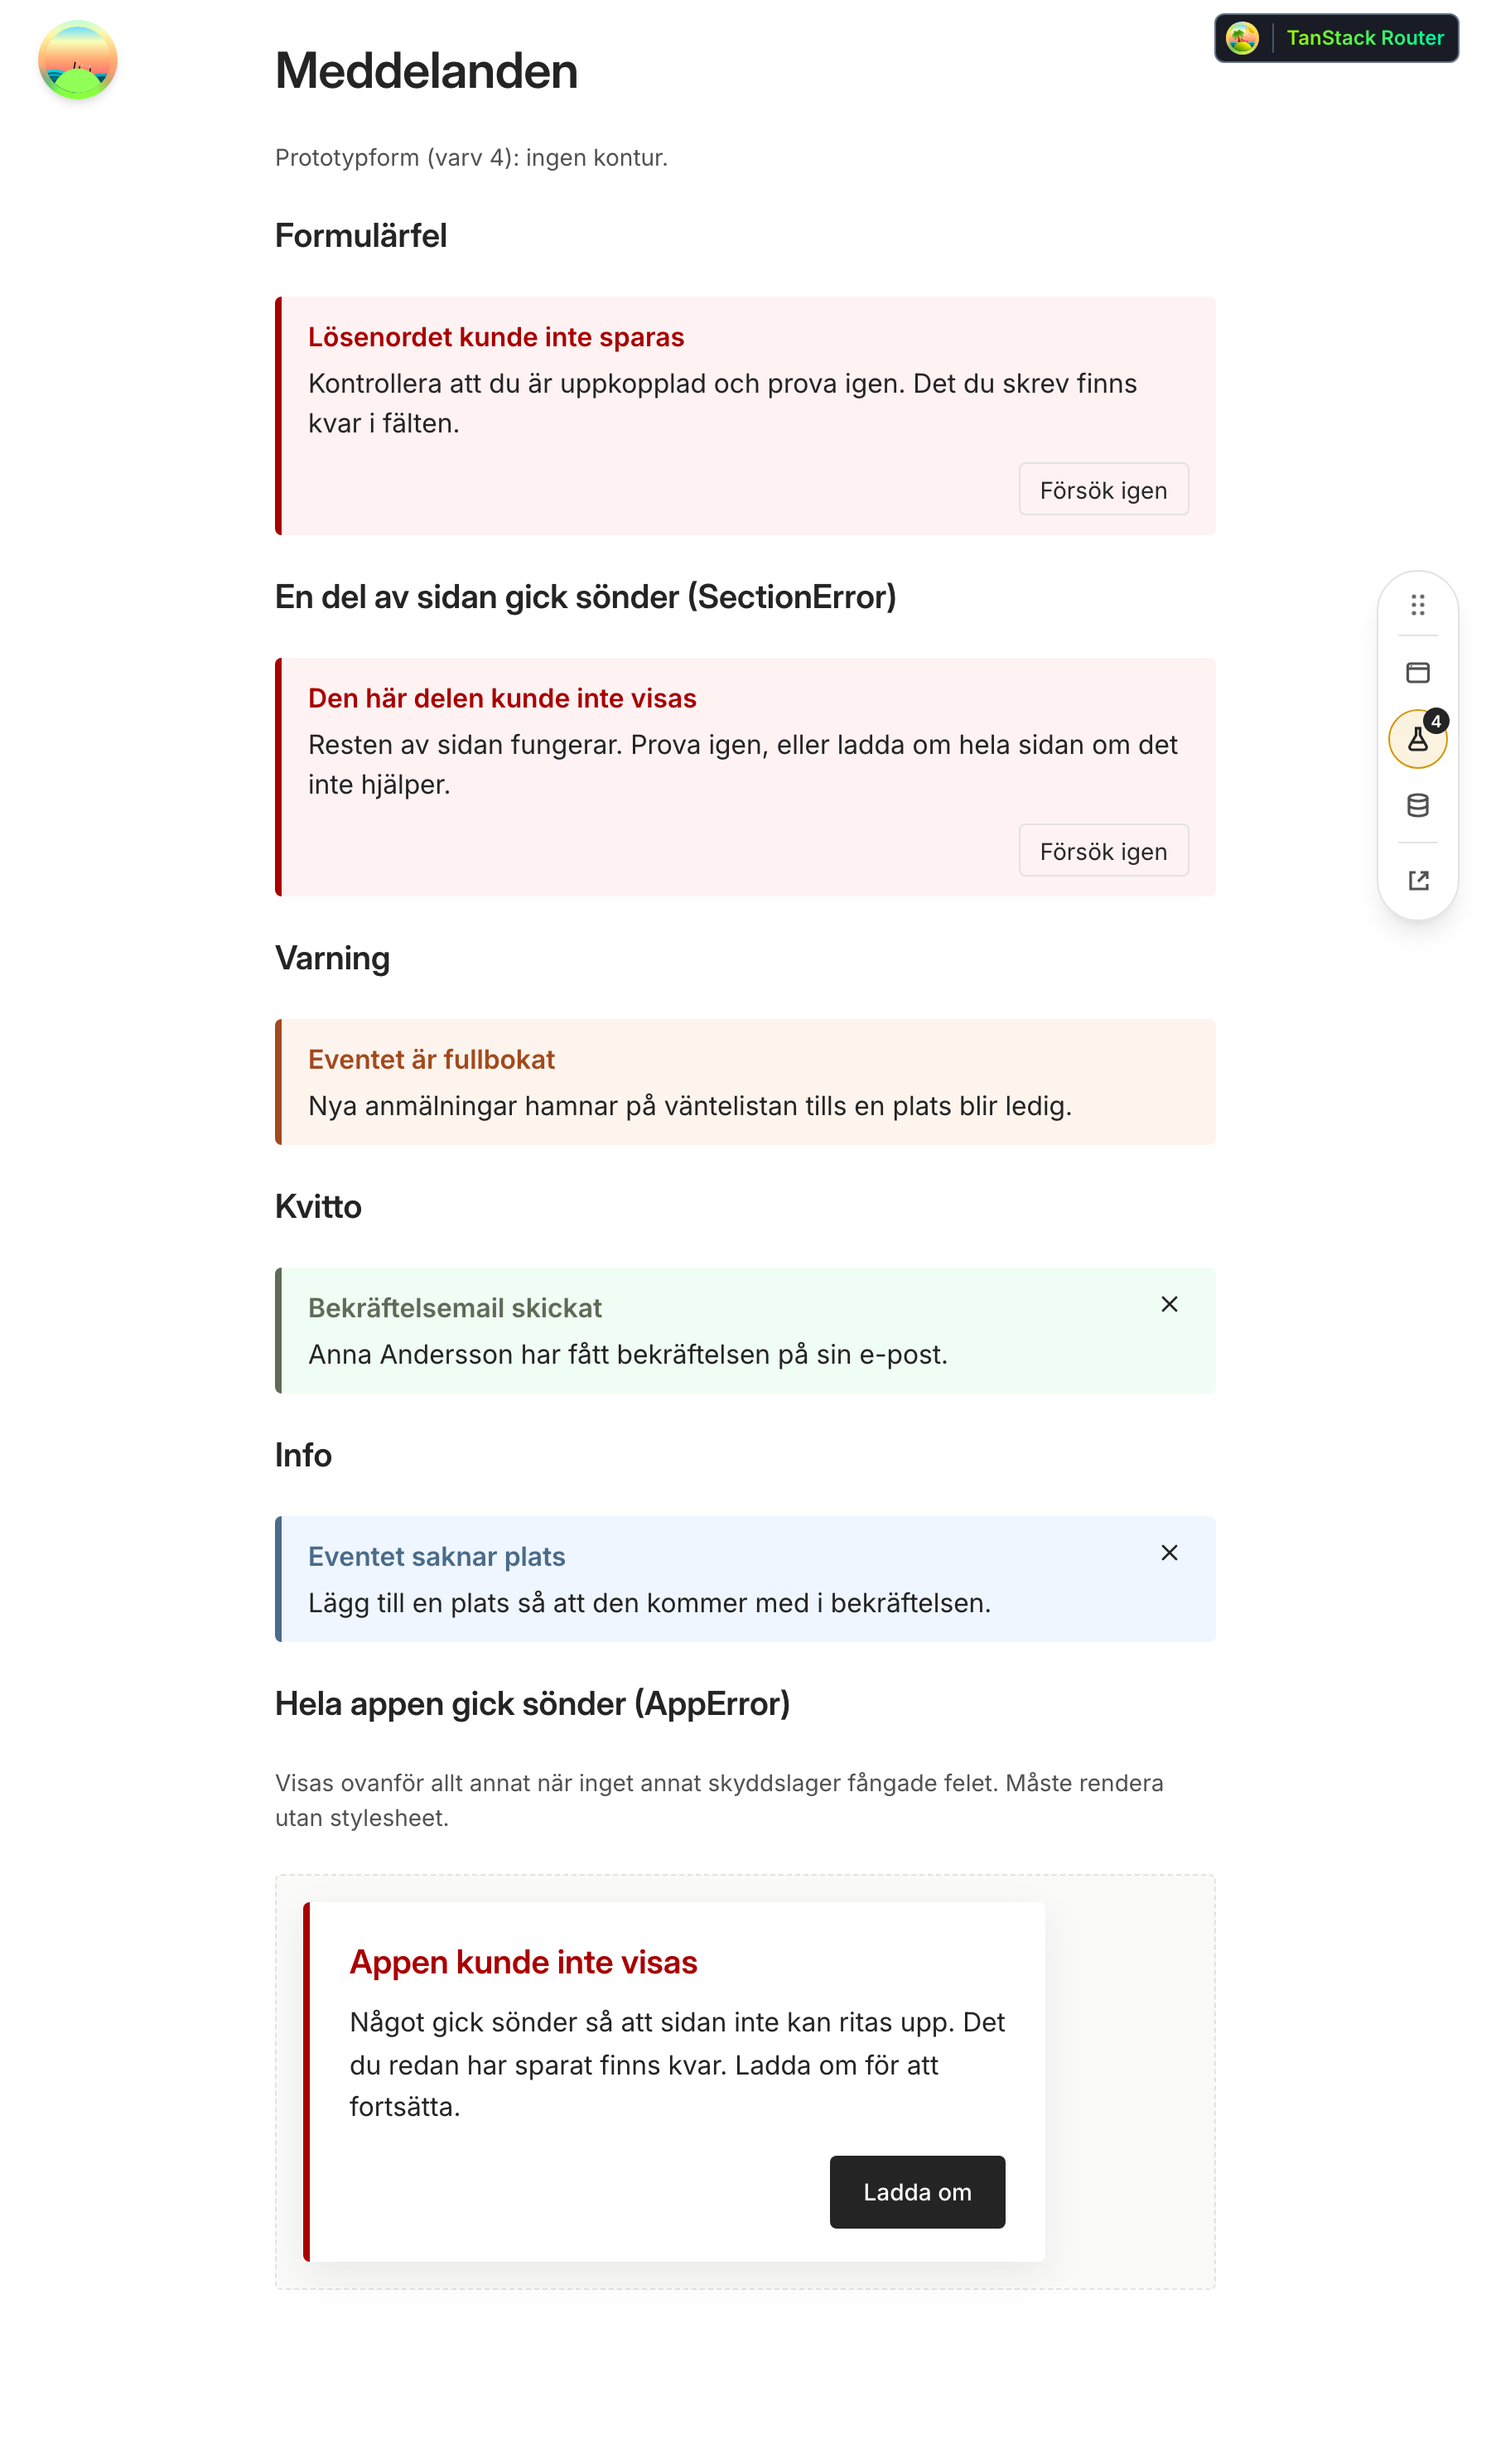
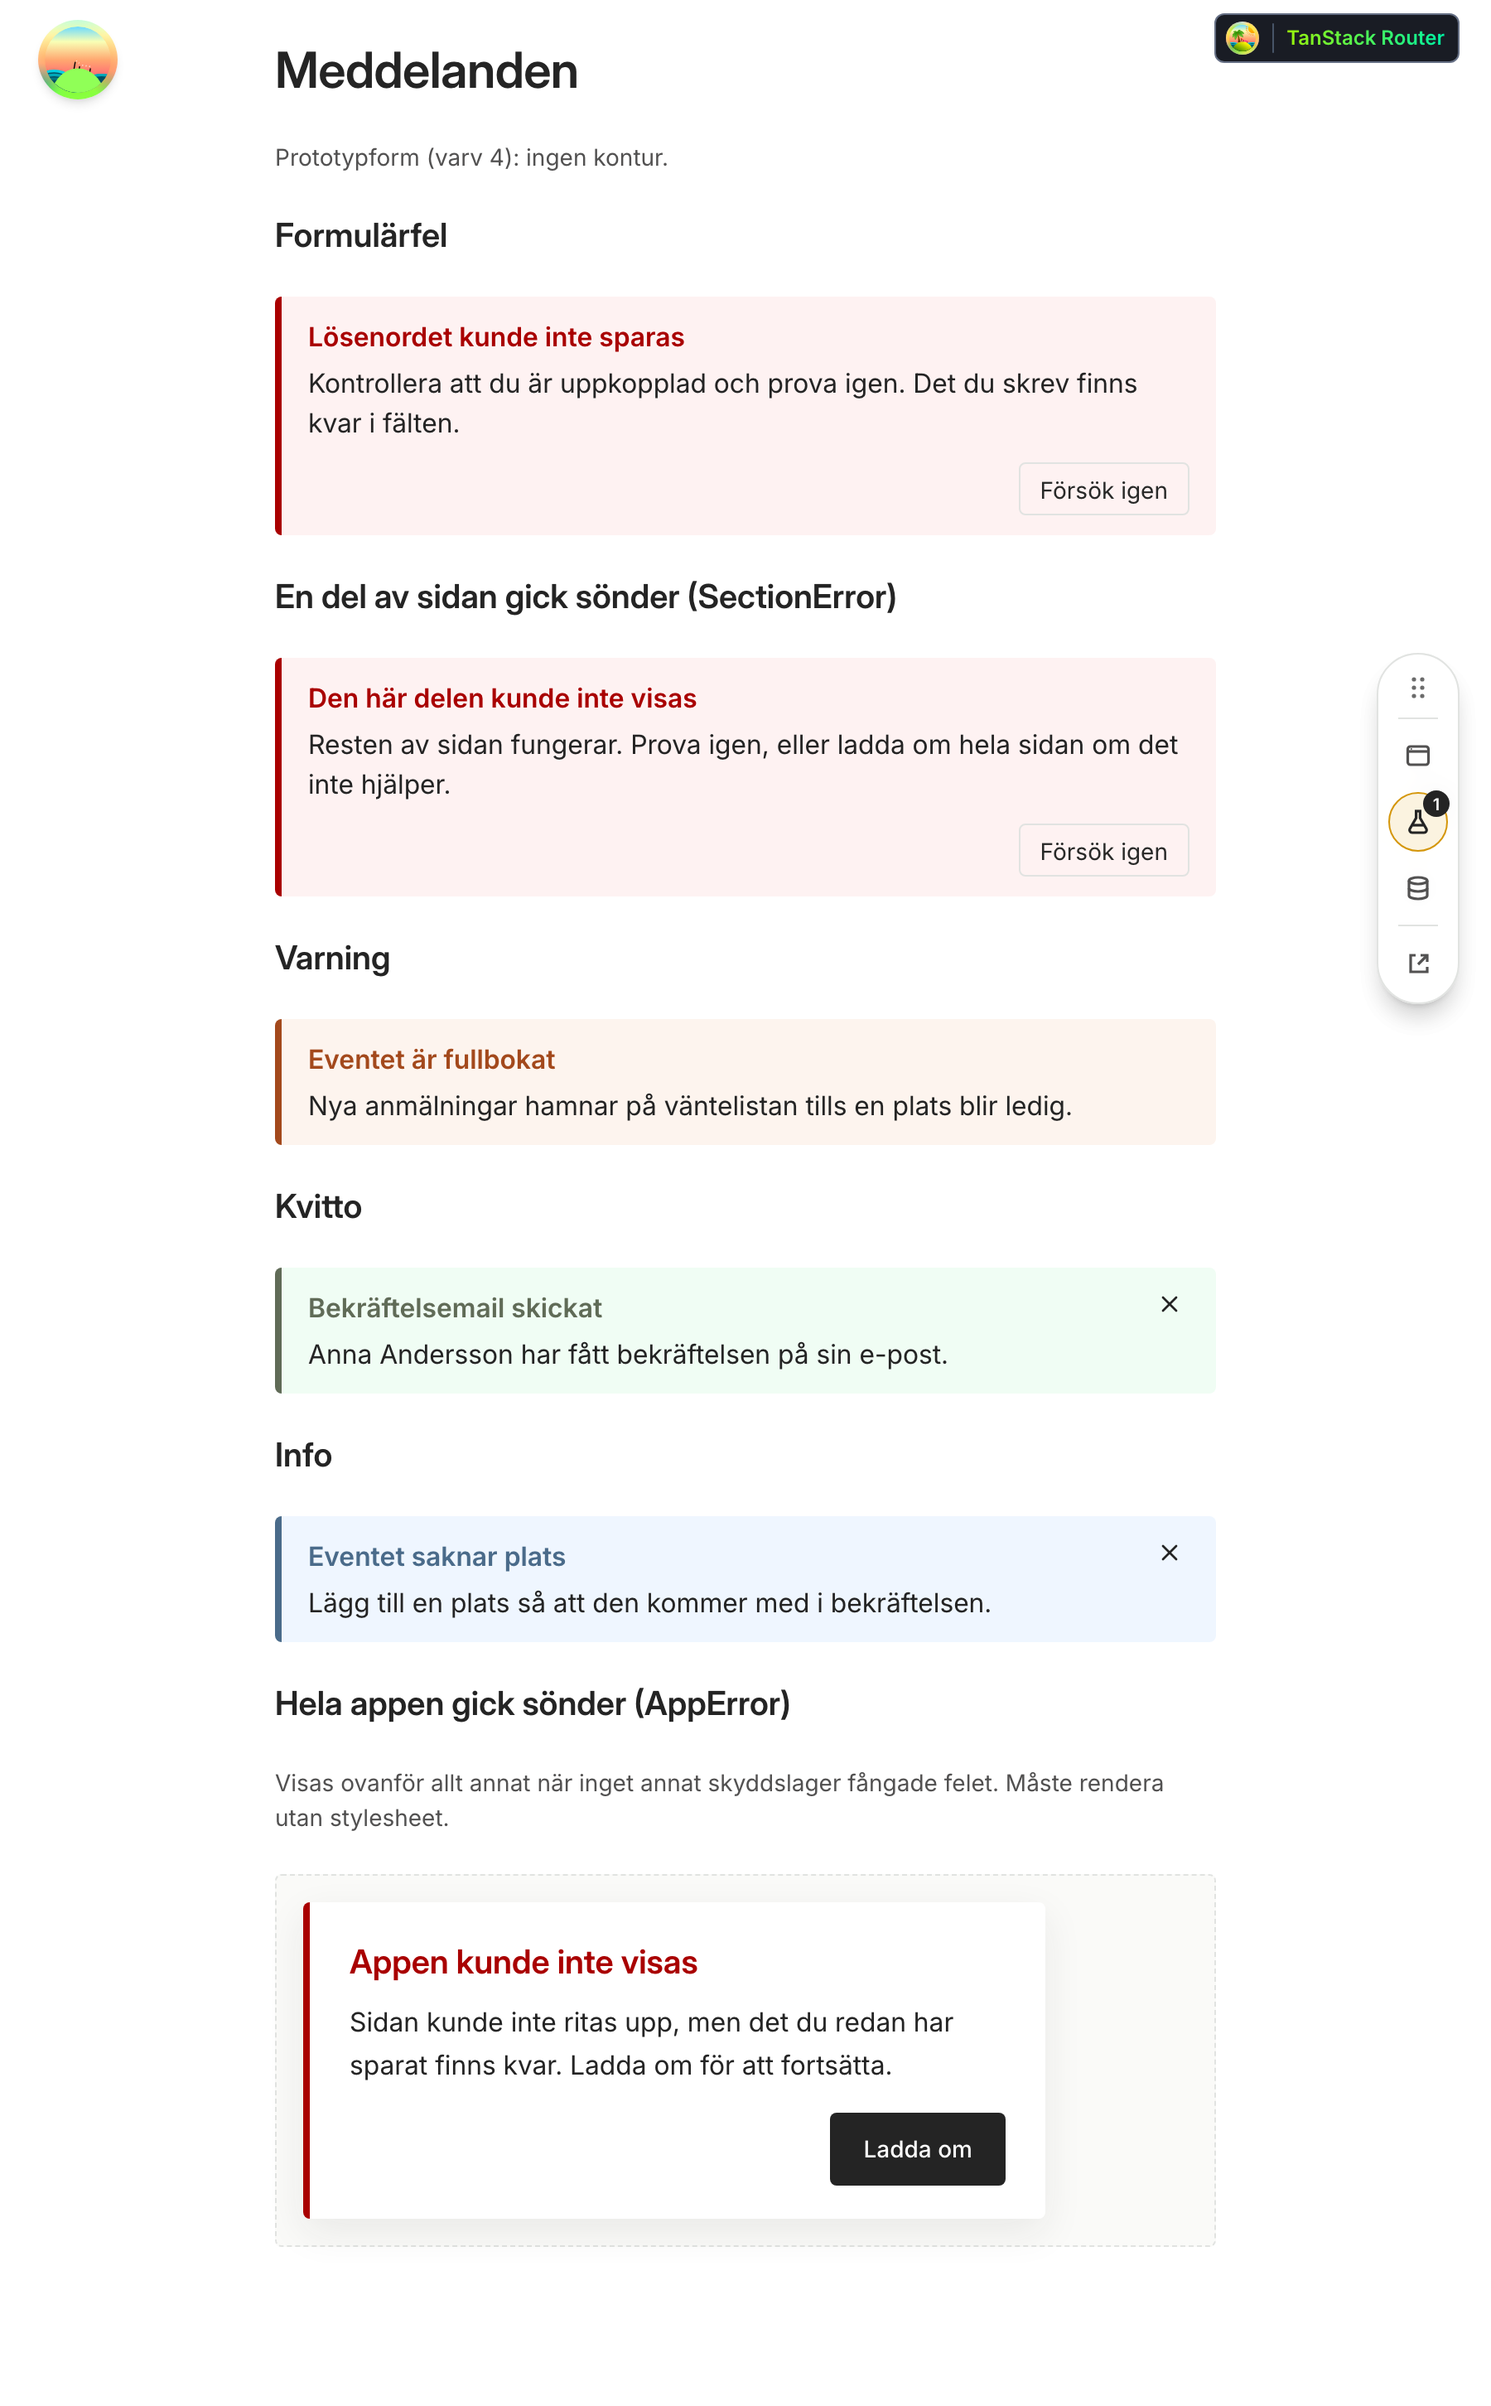
fix(facit): [TASK-285.10] avstäm meddelandefamiljens facit mot koden, friskriv copy för båda ytorna
FÖRKRAV ur TASK-285.8 (AC #4, #5) inför Marcus stämpling:

AC #4: appfel-sidans facit-bild och not-fält citerade den GAMLA tre-
meningars brödtexten, medan AppErrorFallback.tsx/AppErrorPrototyp.tsx
(TASK-285.8, copy-svepet) bär den kortade tvåmenings-versionen sedan
tidigare. Tog om facit-meddelandefamiljen.png (fristående Playwright-
skärmdump av /dev/notis-prototyp?variant=1, samma metod som S109 Del 8:
viewport 900 css px, deviceScaleFactor 2, fullPage — härlett ur den gamla
bildens pixelmått 1800x2956 = 900x1478 @2x) och uppdaterade not-fältet med
den faktiska strängen, verifierad mot src/.

AC #5: manifestet lät meddelanderutan friskriva copy ("FÖRSLAG enligt
copy-domarna, ej låst med formen") medan appfel-sidan föreskrev copy
verbatim — två motsatta påståenden i samma manifest. Lade en delad
FRISKRIVNING i båda ytornas not-fält (facit låser FORMEN — layout,
hierarki, avstånd — inte orden) och tog bort appfel-sidans verbatim-lås;
formbeskrivningen (inline-stilar, kortform, hierarki) står oförändrad.

Bockar AC #4 och #5 på TASK-285.10. AC #1–#3 kräver Marcus egen
granskning och stämpling via facit:godkann (ADR-104) — kortet lämnas
i To Do.

diff --git a/backlog/tasks/task-285.10 - Skiva-Marcus-granskar-skarpa-mot-facit-och-stämplar-—-sida-vid-sida-per-yta-godkand-via-kanalen.md b/backlog/tasks/task-285.10 - Skiva-Marcus-granskar-skarpa-mot-facit-och-stämplar-—-sida-vid-sida-per-yta-godkand-via-kanalen.md
@@ -6,7 +6,7 @@ title: >-
 status: To Do
 assignee: []
 created_date: '2026-08-21 11:17'
-updated_date: '2026-08-21 16:51'
+updated_date: '2026-08-22 08:41'
 labels:
   - ready-for-human
 dependencies:
@@ -40,8 +40,8 @@ Täcker användarberättelser: 20
 - [ ] #1 Varje yta är jämförd sida vid sida av Marcus; utfallet (identisk / avvikelse-kort) är bokfört per yta i kortets notes
 - [ ] #2 Båda manifesten bär godkand satt av Marcus via facit:godkann med citat — inte av någon agent
 - [ ] #3 Copy-svepets före/efter-tabell är läst och kvitterad av Marcus, eller fynd-kort skapade för de strängar han vill ändra
-- [ ] #4 FÖRKRAV ur TASK-285.8: facit-manifestet s109-meddelandefamiljen-konvergens är avstämt mot koden före stämpling. Ytan appfel-sidan har ett not-fält som citerar den GAMLA tre-menings-brödtexten verbatim ('Något gick sönder så att sidan inte kan ritas upp. Det du redan har sparat finns kvar. Ladda om för att fortsätta.') och dess bild visar samma text, medan koden efter copy-svepet bär två meningar ('Sidan kunde inte ritas upp, men det du redan har sparat finns kvar. Ladda om för att fortsätta.'). Antingen tas bilden om och not-fältet uppdateras, eller så motiveras avvikelsen öppet i stämplingens PR
-- [ ] #5 FÖRKRAV ur TASK-285.8: manifestets interna inkonsekvens om copy är löst eller öppet bokförd. Ytan meddelanderutan säger uttryckligen 'Copyn i exemplen är FÖRSLAG enligt copy-domarna, ej låst med formen'; ytan appfel-sidan saknar motsvarande friskrivning och föreskriver i stället copy verbatim. Samma manifest kan inte både låsa och friskriva copy utan att det står varför
+- [x] #4 FÖRKRAV ur TASK-285.8: facit-manifestet s109-meddelandefamiljen-konvergens är avstämt mot koden före stämpling. Ytan appfel-sidan har ett not-fält som citerar den GAMLA tre-menings-brödtexten verbatim ('Något gick sönder så att sidan inte kan ritas upp. Det du redan har sparat finns kvar. Ladda om för att fortsätta.') och dess bild visar samma text, medan koden efter copy-svepet bär två meningar ('Sidan kunde inte ritas upp, men det du redan har sparat finns kvar. Ladda om för att fortsätta.'). Antingen tas bilden om och not-fältet uppdateras, eller så motiveras avvikelsen öppet i stämplingens PR
+- [x] #5 FÖRKRAV ur TASK-285.8: manifestets interna inkonsekvens om copy är löst eller öppet bokförd. Ytan meddelanderutan säger uttryckligen 'Copyn i exemplen är FÖRSLAG enligt copy-domarna, ej låst med formen'; ytan appfel-sidan saknar motsvarande friskrivning och föreskriver i stället copy verbatim. Samma manifest kan inte både låsa och friskriva copy utan att det står varför
 <!-- AC:END -->
 
 ## Definition of Done
